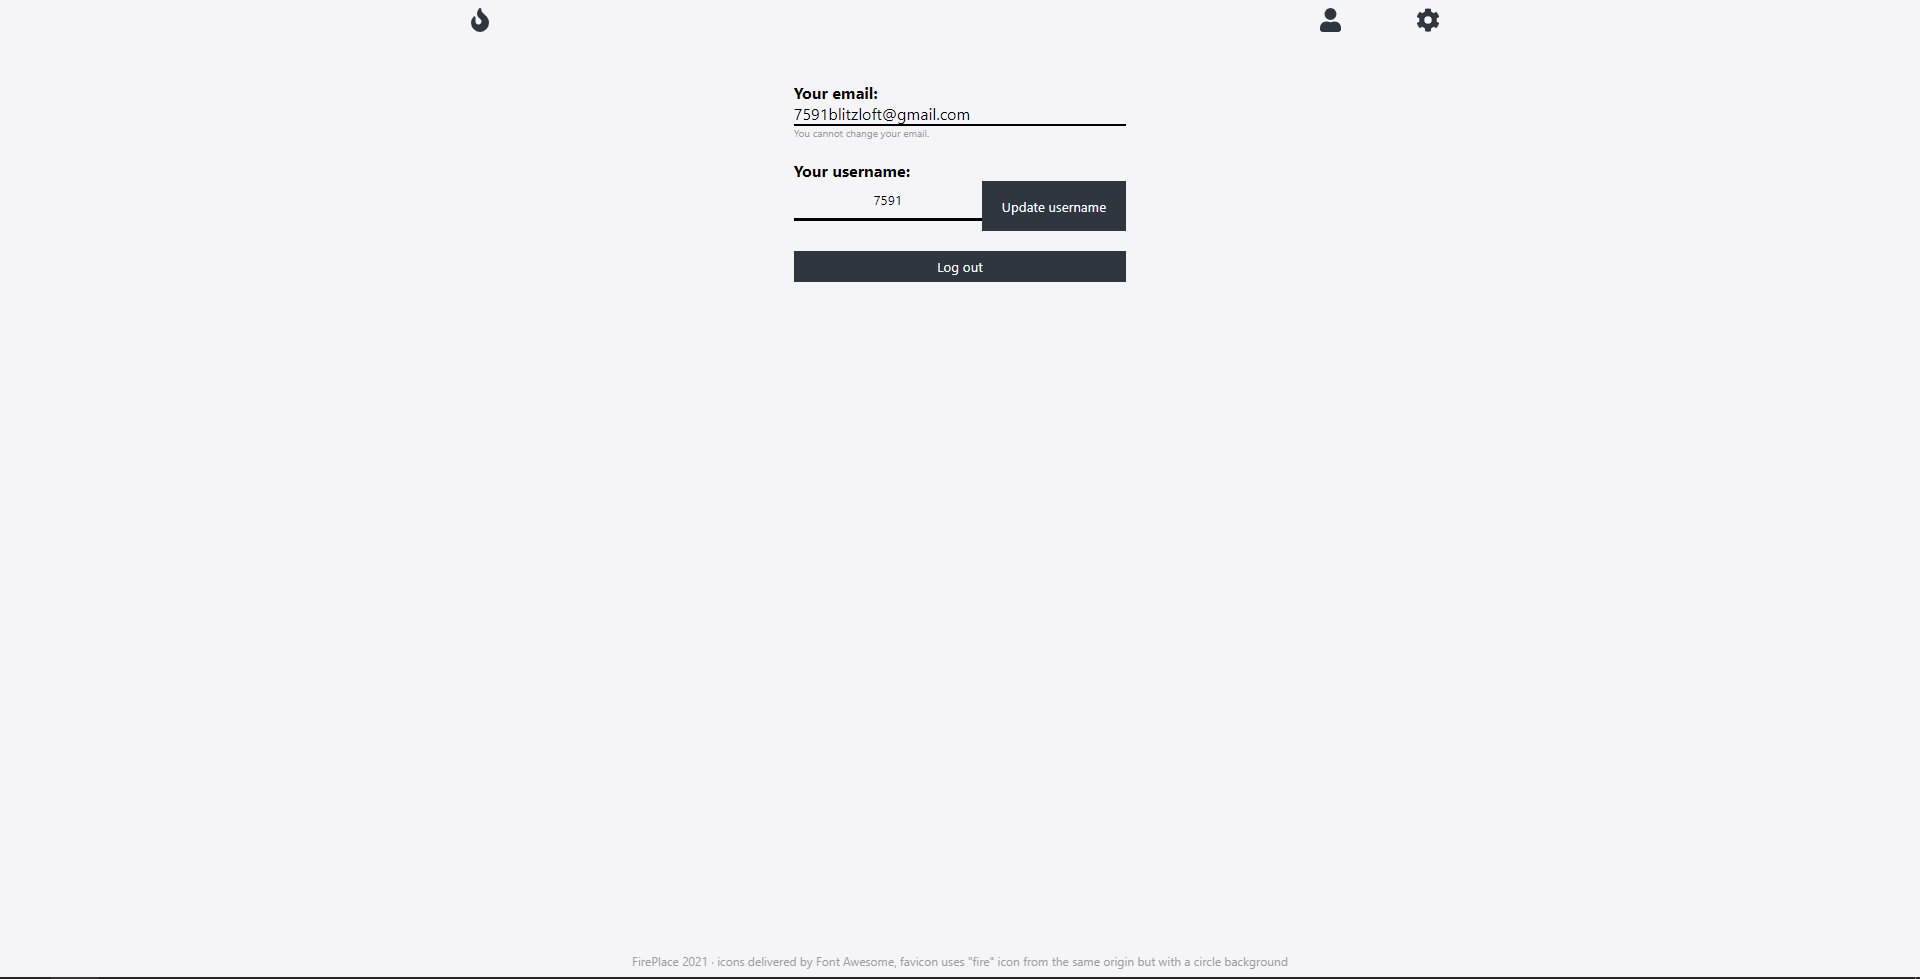
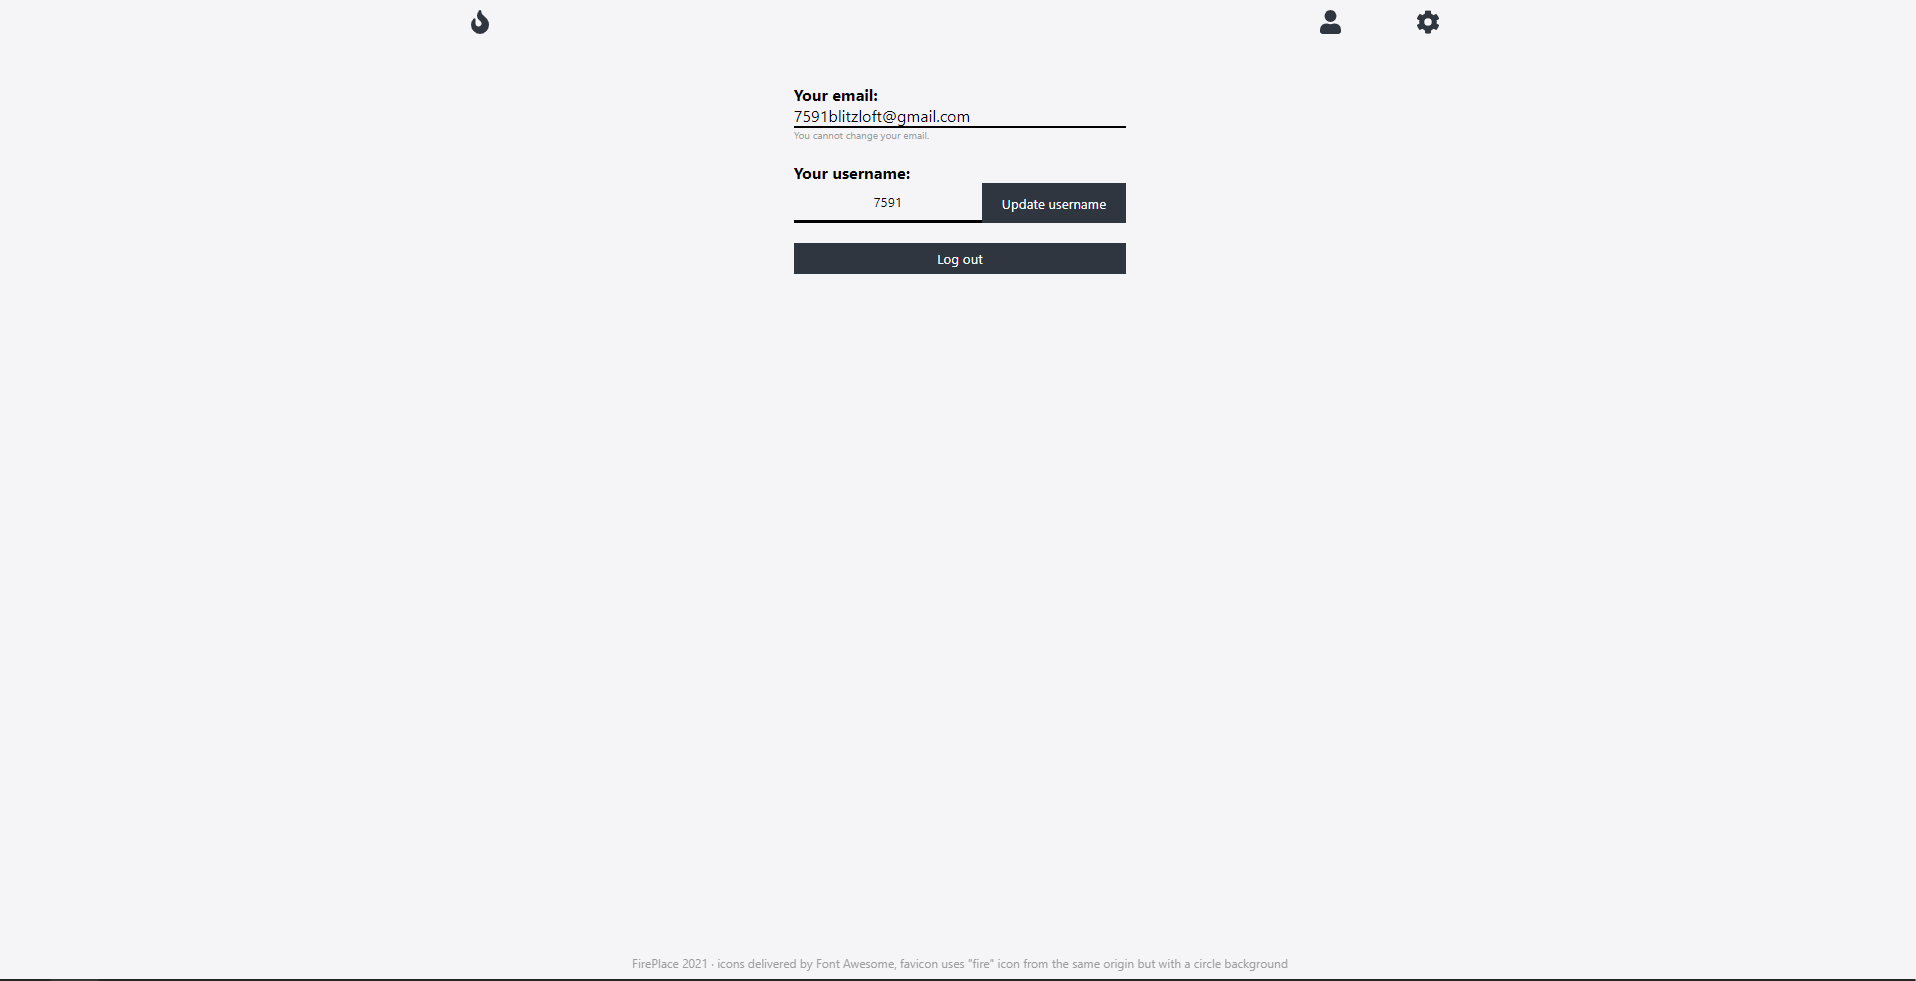
Header & footer bug fix

diff --git a/src/css/Navigation.css b/src/css/Navigation.css
@@ -1,7 +1,10 @@
 header {
+  position: fixed;
+  top: 0;
   box-sizing: content-box;
   display: flex;
   width: 100vh;
+  background-color: #f5f5f7;
 }
 
 ul {

diff --git a/src/css/App.css b/src/css/App.css
@@ -54,9 +54,9 @@ li {
 
 footer {
   margin: 8px;
+  margin-top: 20px;
   font-size: 12px;
   color: #9c9ca0;
-  position: fixed;
   bottom: 0;
 }
 
